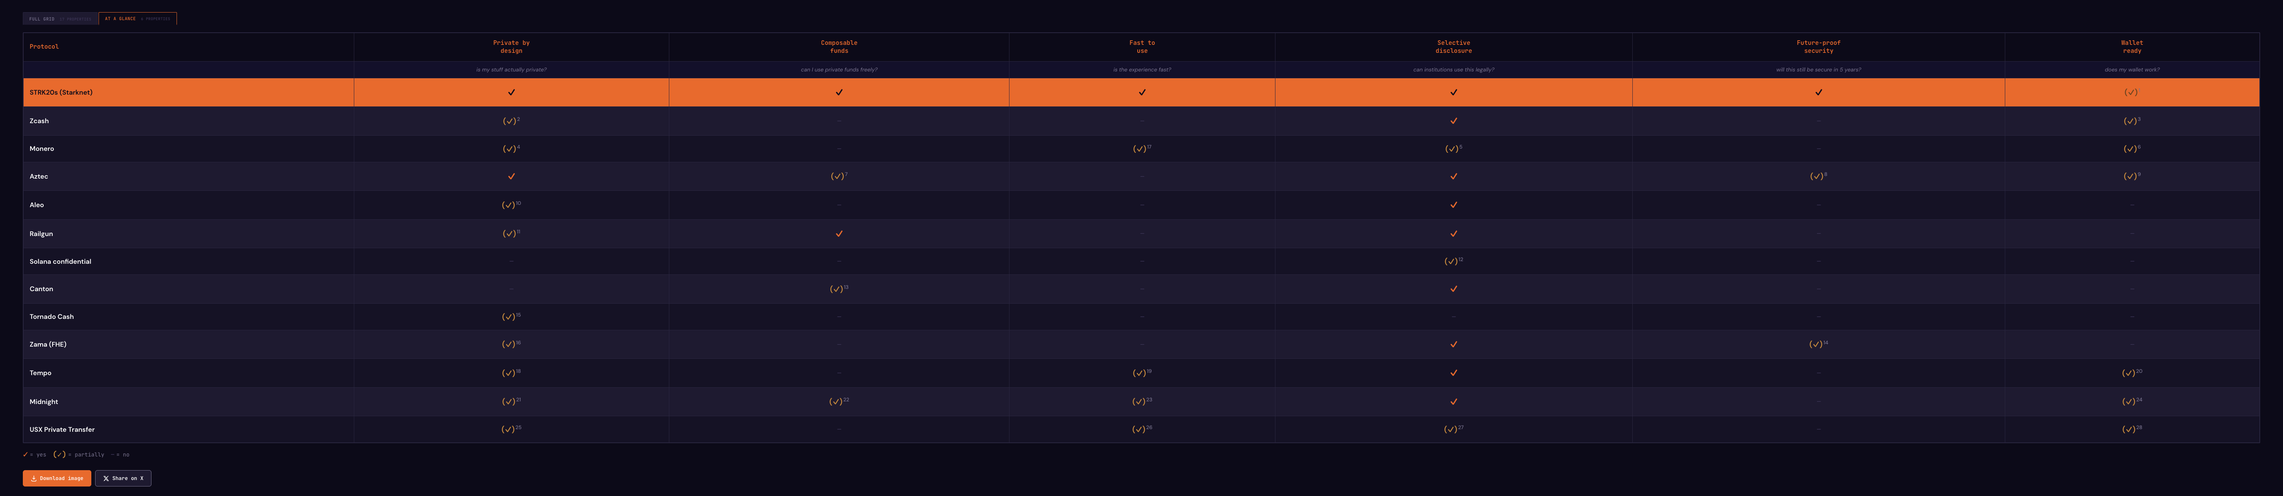
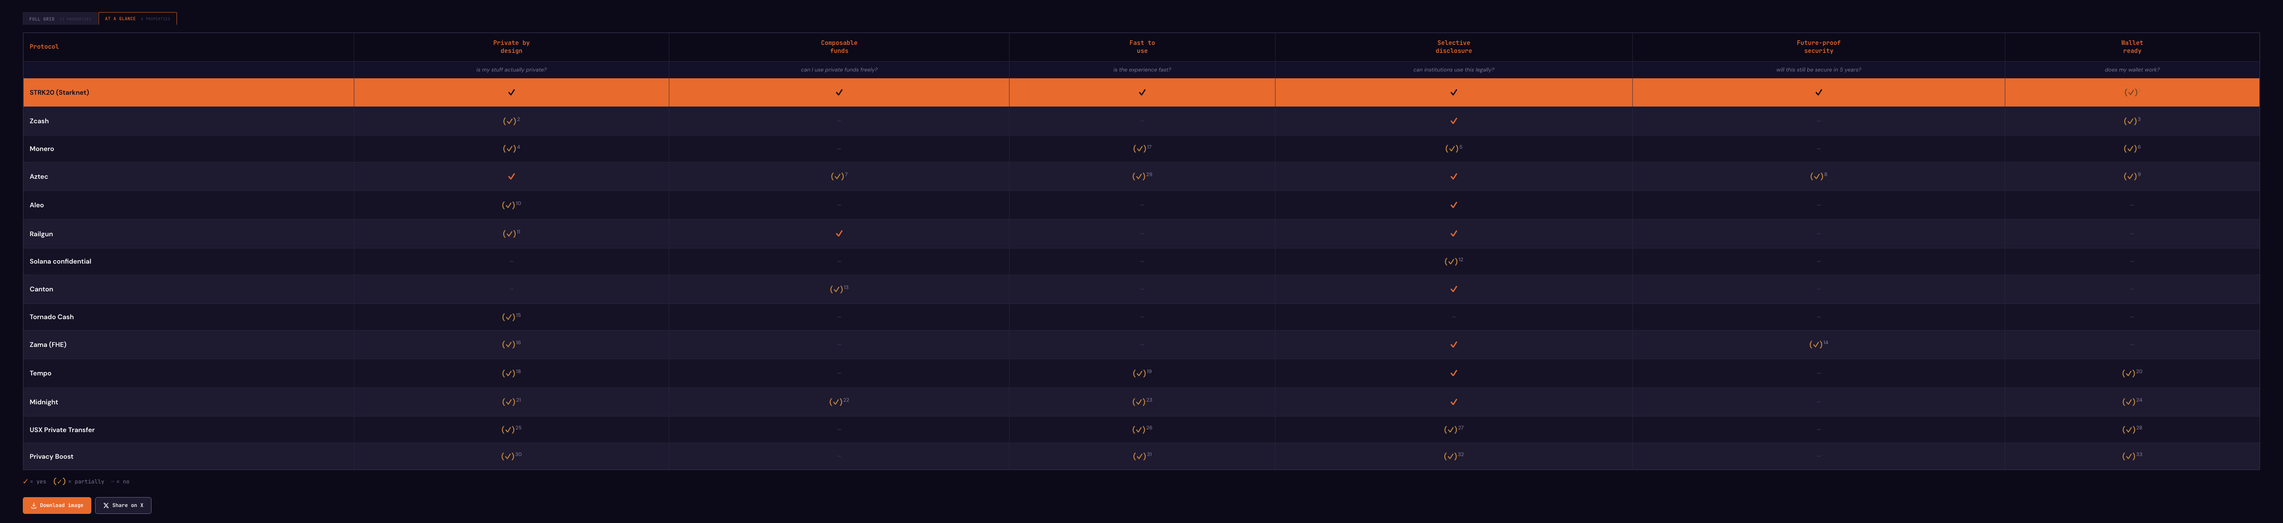
Add Privacy Boost to privacy grid

diff --git a/docs/data.js b/docs/data.js
@@ -1,4 +1,4 @@
-// Website data source — 17 properties x 13 protocols
+// Website data source — 17 properties x 14 protocols
 
 const SUPERSCRIPTS = {1:"\u00B9",2:"\u00B2",3:"\u00B3",4:"\u2074",5:"\u2075",6:"\u2076",7:"\u2077",8:"\u2078",9:"\u2079",10:"\u00B9\u2070",11:"\u00B9\u00B9",12:"\u00B9\u00B2",13:"\u00B9\u00B3",14:"\u00B9\u2074",15:"\u00B9\u2075",16:"\u00B9\u2076",17:"\u00B9\u2077",18:"\u00B9\u2078",19:"\u00B9\u2079",20:"\u00B2\u2070",21:"\u00B2\u00B9",22:"\u00B2\u00B2",23:"\u00B2\u00B3",24:"\u00B2\u2074",25:"\u00B2\u2075",26:"\u00B2\u2076",27:"\u00B2\u2077",28:"\u00B2\u2078",29:"\u00B2\u2079",30:"\u00B3\u2070"};
 
@@ -61,6 +61,15 @@ const sourceRefs = {
   "cloak-docs": { label: "Cloak docs", url: "https://scroll-tech.github.io/cloak-documentation/" },
   "cloak-private": { label: "Cloak private transfers", url: "https://cloak-4.gitbook.io/cloak-docs/cloak-tools/private-transfers" },
   "defillama-usx": { label: "DefiLlama USX", url: "https://defillama.com/protocol/usx.capital" },
+  "privacyboost-overview": { label: "Privacy Boost overview", url: "https://docs.privacyboost.io/product/overview" },
+  "privacyboost-trust": { label: "Privacy Boost trust model", url: "https://docs.privacyboost.io/product/trust-and-security" },
+  "privacyboost-compliance": { label: "Privacy Boost compliance docs", url: "https://docs.privacyboost.io/product/compliance" },
+  "privacyboost-protocol": { label: "Privacy Boost protocol docs", url: "https://docs.privacyboost.io/technical-explainer/protocol" },
+  "privacyboost-keys": { label: "Privacy Boost keys docs", url: "https://docs.privacyboost.io/technical-explainer/keys-and-encryption" },
+  "privacyboost-audit": { label: "OpenZeppelin PrivacyBoost audit", url: "https://www.openzeppelin.com/news/sunnyside-labs-privacyboost-audit" },
+  "privacyboost-terms": { label: "Privacy Boost terms", url: "https://www.privacyboost.io/terms" },
+  "privacyboost-optimism": { label: "Optimism Privacy Boost launch", url: "https://www.optimism.io/blog/privacy-comes-to-the-op-stack" },
+  "privacyboost-startale": { label: "Startale Privacy Boost integration", url: "https://cointelegraph.com/news/startale-app-taps-privacy-boost-for-private-transfers-on-soneium" },
 };
 
 const sourced = (text, sources = []) => ({ text, sources });
@@ -118,6 +127,9 @@ const fullProjects = [
   { name: "USX Private Transfer",
     ticks: [false, true, true, false, "partial", false, false, false, "partial", "partial", false, false, false, "partial", true, false, false],
     fnMap: {4: 30, 8: 31, 9: 31, 13: 32} },
+  { name: "Privacy Boost",
+    ticks: [true, true, false, "partial", "partial", false, false, false, "partial", "partial", "partial", false, false, false, true, false, false],
+    fnMap: {3: 37, 4: 38, 8: 39, 9: 39, 10: 40} },
 ];
 
 const fullFootnotes = {
@@ -157,9 +169,13 @@ const fullFootnotes = {
   34: sourced("STRK20 and Starknet public copy describe zero-knowledge-backed private transactions, but the public S-two docs say S-two did not provide the zero-knowledge feature at time of writing. marked partial until current deployment status is documented end to end", ["strk20-overview", "starknet-strk20-blog", "stwo-zk-status"]),
   35: sourced("Tempo docs describe selective disclosure for planned private-token designs, and TIP-403 provides issuer policy controls, but the native private token standard is still described as a future release", ["tempo-privacy", "tempo-tip403"]),
   36: sourced("Tempo's base chain does not imply a trusted setup, but the privacy cryptography for private tokens is not publicly specified yet. the grid does not assert either no-setup or trusted-setup status as a full claim", ["tempo-privacy", "tempo-transactions"]),
+  37: sourced("fast balance and history UX depends on a TEE indexer that decrypts transaction metadata and serves indexed state. users can manually recover by scanning onchain events with their viewing key, but normal note discovery is enclave-mediated", ["privacyboost-trust", "privacyboost-protocol", "privacyboost-audit"]),
+  38: sourced("audit access is operator-mediated rather than user-issued viewing keys: auditors query a TEE-decrypted database through authenticated API access, with onchain audit logs submitted asynchronously", ["privacyboost-compliance", "privacyboost-terms"]),
+  39: sourced("server-side TEE proving is advertised as sub-500ms, but private transfers settle when the relay submits an epoch. forced withdrawals bypass the TEE but introduce a configurable delay", ["privacyboost-overview", "privacyboost-protocol", "privacyboost-audit"]),
+  40: sourced("epoch batching gives one Groth16 proof per batch and docs estimate 300+ sustained TPS at Base gas target or 1,800+ TPS at gas limit, but no public production telemetry was found. no TPS sublabel is shown for claimed or theoretical figures", ["privacyboost-protocol", "privacyboost-trust"]),
 };
 
-// At-a-glance data — 6 properties x 13 protocols
+// At-a-glance data — 6 properties x 14 protocols
 const glanceProjects = [
   { name: "STRK20 (Starknet)", highlight: true,
     ticks: [true, true, true, true, true, "partial"],
@@ -200,6 +216,9 @@ const glanceProjects = [
   { name: "USX Private Transfer",
     ticks: ["partial", false, "partial", "partial", false, "partial"],
     fnMap: {0: 25, 2: 26, 3: 27, 5: 28} },
+  { name: "Privacy Boost",
+    ticks: ["partial", false, "partial", "partial", false, "partial"],
+    fnMap: {0: 30, 2: 31, 3: 32, 5: 33} },
 ];
 
 const glanceFootnotes = {
@@ -232,19 +251,23 @@ const glanceFootnotes = {
   27: sourced("USX explicitly says private transfer is private to the public, not to regulators, and supports centralized auditing and view keys for AML/CFT compliance", ["usx-docs", "cloak-private"]),
   28: sourced("USX works with standard EVM wallets like MetaMask and hides most routing complexity, but no privacy-transaction hardware-wallet path is documented", ["cloak-docs", "cloak-private"]),
   29: sourced("Aztec's speed-related full-grid properties are all partial: Alpha Mainnet has ~6s blocks, PXE proving is still being optimized, and current alpha throughput is about ~1 TPS", ["aztec-networks", "aztec-pxe"]),
+  30: sourced("private from public observers, but not private from the enclave trust path: the TEE sees plaintext amounts and counterparties, and Sunnyside or a service operator may control selective-disclosure access to transaction data", ["privacyboost-trust", "privacyboost-terms", "privacyboost-audit"]),
+  31: sourced("TEE proof generation is advertised as sub-500ms, but transfers are epoch-batched and no public production latency benchmark was found", ["privacyboost-overview", "privacyboost-protocol"]),
+  32: sourced("compliance disclosure is not user-issued viewing keys. auditors query account-level history and balances from the TEE-indexed database through an authenticated API, with onchain query logs", ["privacyboost-compliance", "privacyboost-terms"]),
+  33: sourced("works with MetaMask, WalletConnect, and EOAs, but the privacy account still derives separate auth, viewing, and nullifying keys and no hardware-wallet privacy flow is documented", ["privacyboost-overview", "privacyboost-keys"]),
 };
 
 // Column definitions grouped by category
 const definitions = [
   { category: "Privacy Model", entries: [
-    { term: "Multi-asset privacy pool", def: "Single pool supports multiple token types. Observers can\u2019t tell which token a note belongs to. STRK20, Aztec, and Railgun have full multi-asset pools. Midnight supports multiple shielded token types, but the docs do not yet establish one shared anonymity pool. Zama supports confidential ERC-20s via fhEVM but ecosystem is nascent. Aleo is asset-agnostic but each program has isolated state. Zcash/Monero are single-asset. Tornado Cash had fragmented pools. Canton uses access-control privacy." },
-    { term: "Formally ZK proofs", def: "The proof system has the mathematical zero-knowledge property: the proof guarantees that no information about the secret data leaks to the verifier. Zcash (Groth16/Halo 2), Aztec (PLONK/Honk), Aleo (Varuna), Railgun (Groth16), and Tornado Cash (Groth16) use formally ZK proof systems. STRK20 is marked partial: public STRK20 copy says zero-knowledge-backed private transactions, while public S-two docs say the zero-knowledge feature was not available at time of writing. Monero uses ring signatures. Solana uses ElGamal. Canton uses access control." },
-    { term: "Secretless (no per-note keys)", def: "Users handle a single signing key (or none, via AA). No per-note secrets to manage or lose. STRK20 derives all keys from the Starknet account key via account abstraction. Aztec requires 4 separate key pairs. Aleo requires private key + view key. Railgun requires spending + viewing keys. Monero requires spend + view keys." },
-    { term: "Efficient note discovery", def: "Recipients discover funds in time proportional to their own activity. STRK20 uses onchain indexed storage with shared secrets. Aztec uses a tagging mechanism but requires pre-registering senders. Midnight separates public onchain state from private local state and ships an indexer, but note-discovery guarantees are not yet documented precisely. Zcash requires scanning all blocks. Railgun and Aleo use standard record/UTXO scanning." },
-    { term: "Selective disclosure", def: "Users can optionally reveal transaction history to a chosen third party without affecting other users\u2019 privacy. STRK20 has third-party viewing keys. Zcash has full viewing keys. Aztec has viewing key pairs. Aleo has view keys plus zPass. Railgun has scoped viewing keys plus PPOI. Midnight exposes selective disclosure through witness functions. Tempo describes issuer/regulator selective disclosure for planned private tokens. USX exposes regulatory view keys. Canton has sub-transaction privacy with full auditability." },
+    { term: "Multi-asset privacy pool", def: "Single pool supports multiple token types. Observers can\u2019t tell which token a note belongs to. STRK20, Aztec, Railgun, and Privacy Boost have full multi-asset pools. Midnight supports multiple shielded token types, but the docs do not yet establish one shared anonymity pool. Zama supports confidential ERC-20s via fhEVM but ecosystem is nascent. Aleo is asset-agnostic but each program has isolated state. Zcash/Monero are single-asset. Tornado Cash had fragmented pools. Canton uses access-control privacy." },
+    { term: "Formally ZK proofs", def: "The proof system has the mathematical zero-knowledge property: the proof guarantees that no information about the secret data leaks to the verifier. Zcash (Groth16/Halo 2), Aztec (PLONK/Honk), Aleo (Varuna), Railgun (Groth16), Privacy Boost (Groth16/BN254), and Tornado Cash (Groth16) use formally ZK proof systems. STRK20 is marked partial: public STRK20 copy says zero-knowledge-backed private transactions, while public S-two docs say the zero-knowledge feature was not available at time of writing. Monero uses ring signatures. Solana uses ElGamal. Canton uses access control." },
+    { term: "Secretless (no per-note keys)", def: "Users handle a single signing key (or none, via AA). No per-note secrets to manage or lose. STRK20 derives all keys from the Starknet account key via account abstraction. Privacy Boost derives auth, viewing, and nullifying keys from a seed in addition to the user's EOA key. Aztec requires 4 separate key pairs. Aleo requires private key + view key. Railgun requires spending + viewing keys. Monero requires spend + view keys." },
+    { term: "Efficient note discovery", def: "Recipients discover funds in time proportional to their own activity. STRK20 uses onchain indexed storage with shared secrets. Privacy Boost provides fast note discovery through a TEE indexer that decrypts and serves metadata, with manual recovery by scanning onchain events. Aztec uses a tagging mechanism but requires pre-registering senders. Midnight separates public onchain state from private local state and ships an indexer, but note-discovery guarantees are not yet documented precisely. Zcash requires scanning all blocks. Railgun and Aleo use standard record/UTXO scanning." },
+    { term: "Selective disclosure", def: "Users can optionally reveal transaction history to a chosen third party without affecting other users\u2019 privacy. STRK20 has third-party viewing keys. Zcash has full viewing keys. Aztec has viewing key pairs. Aleo has view keys plus zPass. Railgun has scoped viewing keys plus PPOI. Midnight exposes selective disclosure through witness functions. Privacy Boost exposes compliance-oriented audit API access to a TEE-indexed database rather than user-issued viewing keys. Tempo describes issuer/regulator selective disclosure for planned private tokens. USX exposes regulatory view keys. Canton has sub-transaction privacy with full auditability." },
   ]},
   { category: "Cryptographic Foundation", entries: [
-    { term: "No trusted setup", def: "Proof system requires no trusted setup ceremony. STARKs (Starknet) require none. Zcash Orchard uses Halo 2 (no setup) but Sapling still has one. Monero\u2019s Bulletproofs+ and Solana\u2019s ElGamal/Bulletproofs require none. Aleo uses Varuna (requires universal SRS). Aztec\u2019s PLONK uses a universal updatable SRS. Midnight\u2019s current stack references a Midnight SRS. Railgun and Tornado Cash use Groth16 (per-circuit ceremonies). Tempo private-token cryptography is not yet publicly specified." },
+    { term: "No trusted setup", def: "Proof system requires no trusted setup ceremony. STARKs (Starknet) require none. Zcash Orchard uses Halo 2 (no setup) but Sapling still has one. Monero\u2019s Bulletproofs+ and Solana\u2019s ElGamal/Bulletproofs require none. Aleo uses Varuna (requires universal SRS). Aztec\u2019s PLONK uses a universal updatable SRS. Midnight\u2019s current stack references a Midnight SRS. Railgun, Privacy Boost, and Tornado Cash use Groth16 (per-circuit ceremonies). Tempo private-token cryptography is not yet publicly specified." },
     { term: "Post-quantum proof system", def: "Underlying cryptography resists quantum computing attacks. STARKs (hash-based) are post-quantum by design. Zama\u2019s TFHE is lattice-based (LWE), considered PQ-resistant but less battle-tested. All SNARK/elliptic curve systems are vulnerable to quantum attacks." },
     { term: "Succinct verifiability", def: "Anyone can verify chain integrity quickly and trustlessly on a small device. ZK rollups (Starknet, Aztec) have this. L1s like Solana, Zcash, Monero, Aleo, Midnight, and Canton do not. Railgun runs on L1s without succinct verification." },
   ]},
@@ -255,10 +278,10 @@ const definitions = [
     { term: "Programmable privacy", def: "Ability to prove complex logic privately, verified cheaply onchain. STRK20: Cairo + Stwo enables proving entire block logic. Aztec: Noir + PXE. Midnight: Compact plus hybrid public/private state. Aleo: Leo but no cross-program composability. Zcash: simple transfers only. Tornado Cash: fixed-denomination deposits were the ceiling." },
   ]},
   { category: "Ecosystem & Access", entries: [
-    { term: "DeFi composability", def: "Existing DeFi contracts require zero custom integration for private transactions. STRK20 and Railgun work with existing live protocols. Aztec, Canton, Midnight, Tempo, and Aleo require building inside their own app environments or token standards. USX routes through a specific private-transfer flow rather than arbitrary DeFi composability." },
-    { term: "Existing ecosystem", def: "Live DeFi protocols, real liquidity, real users already present. Starknet, Zcash, Monero, Railgun, Solana, and Canton all have established ecosystems. Aleo mainnet since Sep 2024, DeFi nascent. Tempo mainnet launched in March 2026 with named design partners, but the live ecosystem is early. Midnight mainnet launched in March 2026, ecosystem early. USX is live on Scroll with modest TVL. Aztec is live in Alpha with explicit security caveats. Zama mainnet is live with early applications and integrations, but the ecosystem is still small." },
-    { term: "EVM compatible", def: "Privacy protocol runs on or integrates natively with EVM chains. Railgun on Ethereum/Polygon/Arbitrum/BSC. Tornado Cash was Ethereum-native. Zama\u2019s fhEVM and Tempo are EVM-compatible. USX runs on Scroll. STRK20 runs on Cairo VM. Aztec uses Noir. Aleo uses Leo. Midnight uses Compact." },
-    { term: "Account abstraction", def: "Privacy works with multisig, session keys, social recovery, passkeys, or sponsored transactions at the protocol level. STRK20 and Aztec have native protocol-level AA. Tempo has native account-abstraction-style transaction features and passkeys. Others require standard key management or app-specific abstractions." },
-    { term: "Hardware wallet support", def: "Users can sign privacy transactions with a hardware wallet. Monero: Ledger full shielded. Zcash: hardware-wallet support is limited; official Trezor docs say shielded z-address transactions are not compatible. Solana has Ledger support, but confidential transfers are disabled on mainnet. Starknet has Ledger for standard transactions, but STRK20 privacy transactions are not yet available on hardware wallets. Tempo uses passkey AA but no hardware-wallet path for confidential transfers is published. Midnight has announced Keystone and other wallet partners, but privacy-transaction hardware flows are not yet clearly documented. Aztec, Aleo, and USX do not have documented privacy-transaction hardware-wallet support." },
+    { term: "DeFi composability", def: "Existing DeFi contracts require zero custom integration for private transactions. STRK20 and Railgun work with existing live protocols. Aztec, Canton, Midnight, Tempo, and Aleo require building inside their own app environments or token standards. Privacy Boost is an SDK/app integration layer around shielded deposits, transfers, and withdrawals; private DeFi is roadmap rather than zero-integration composability today. USX routes through a specific private-transfer flow rather than arbitrary DeFi composability." },
+    { term: "Existing ecosystem", def: "Live DeFi protocols, real liquidity, real users already present. Starknet, Zcash, Monero, Railgun, Solana, and Canton all have established ecosystems. Aleo mainnet since Sep 2024, DeFi nascent. Tempo mainnet launched in March 2026 with named design partners, but the live ecosystem is early. Midnight mainnet launched in March 2026, ecosystem early. USX is live on Scroll with modest TVL. Privacy Boost is live as an OP Mainnet beta for Sunnyside customers and announced Startale/Soneium integration, but no public TVL, contract address index, or production usage telemetry was found. Aztec is live in Alpha with explicit security caveats. Zama mainnet is live with early applications and integrations, but the ecosystem is still small." },
+    { term: "EVM compatible", def: "Privacy protocol runs on or integrates natively with EVM chains. Railgun on Ethereum/Polygon/Arbitrum/BSC. Tornado Cash was Ethereum-native. Zama\u2019s fhEVM, Tempo, and Privacy Boost are EVM-compatible. USX runs on Scroll. STRK20 runs on Cairo VM. Aztec uses Noir. Aleo uses Leo. Midnight uses Compact." },
+    { term: "Account abstraction", def: "Privacy works with multisig, session keys, social recovery, passkeys, or sponsored transactions at the protocol level. STRK20 and Aztec have native protocol-level AA. Tempo has native account-abstraction-style transaction features and passkeys. Privacy Boost works with EOAs and app SDKs but does not provide native protocol-level account abstraction. Others require standard key management or app-specific abstractions." },
+    { term: "Hardware wallet support", def: "Users can sign privacy transactions with a hardware wallet. Monero: Ledger full shielded. Zcash: hardware-wallet support is limited; official Trezor docs say shielded z-address transactions are not compatible. Solana has Ledger support, but confidential transfers are disabled on mainnet. Starknet has Ledger for standard transactions, but STRK20 privacy transactions are not yet available on hardware wallets. Tempo uses passkey AA but no hardware-wallet path for confidential transfers is published. Midnight has announced Keystone and other wallet partners, but privacy-transaction hardware flows are not yet clearly documented. Aztec, Aleo, USX, and Privacy Boost do not have documented privacy-transaction hardware-wallet support." },
   ]},
 ];

diff --git a/docs/index.html b/docs/index.html
@@ -4,7 +4,7 @@
 <meta charset="UTF-8">
 <meta name="viewport" content="width=device-width, initial-scale=1.0">
 <title>Privacy Protocol Grid | Privacy Protocol Claims, Fact-Checked</title>
-<meta name="description" content="What 13 crypto privacy protocols actually deliver: STRK20, Zcash, Monero, Aztec, Aleo, Railgun, Midnight, USX, and more. 17 properties, with sources listed in footnotes.">
+<meta name="description" content="What 14 crypto privacy protocols actually deliver: STRK20, Zcash, Monero, Aztec, Aleo, Railgun, Midnight, USX, Privacy Boost, and more. 17 properties, with sources listed in footnotes.">
 <meta name="keywords" content="privacy protocol, zero knowledge, ZK proofs, STRK20, Zcash, Monero, Aztec, Aleo, Railgun, Midnight, Tempo, USX, Starknet, ERC20 privacy, crypto privacy, blockchain privacy">
 <link rel="canonical" href="https://privacygrid.dev/">
 
@@ -15,7 +15,7 @@
   "@type": "WebApplication",
   "name": "Privacy Protocol Grid",
   "url": "https://privacygrid.dev",
-  "description": "What 13 crypto privacy protocols actually deliver. 17 properties, with sources listed in footnotes.",
+  "description": "What 14 crypto privacy protocols actually deliver. 17 properties, with sources listed in footnotes.",
   "applicationCategory": "Research Tool",
   "operatingSystem": "Web",
   "creator": {
@@ -31,10 +31,10 @@
 
 <!-- Open Graph -->
 <meta property="og:title" content="Privacy Protocol Grid">
-<meta property="og:description" content="What 13 crypto privacy protocols actually deliver: STRK20, Zcash, Monero, Aztec, Aleo, Railgun, Midnight, Tempo, USX. 17 properties, sources listed in footnotes.">
+<meta property="og:description" content="What 14 crypto privacy protocols actually deliver: STRK20, Zcash, Monero, Aztec, Aleo, Railgun, Midnight, Tempo, USX, Privacy Boost. 17 properties, sources listed in footnotes.">
 <meta property="og:image" content="https://privacygrid.dev/privacy_grid_image.png">
 <meta property="og:image:width" content="6000">
-<meta property="og:image:height" content="1366">
+<meta property="og:image:height" content="1441">
 <meta property="og:url" content="https://privacygrid.dev/">
 <meta property="og:type" content="website">
 <meta property="og:site_name" content="Privacy Protocol Grid">
@@ -42,9 +42,9 @@
 <!-- Twitter Card -->
 <meta name="twitter:card" content="summary_large_image">
 <meta name="twitter:title" content="Privacy Protocol Grid">
-<meta name="twitter:description" content="13 protocols. 17 properties. Sources in footnotes.">
+<meta name="twitter:description" content="14 protocols. 17 properties. Sources in footnotes.">
 <meta name="twitter:image" content="https://privacygrid.dev/privacy_grid_image.png">
-<meta name="twitter:image:alt" content="Privacy Protocol Grid comparing 13 protocols across 17 properties">
+<meta name="twitter:image:alt" content="Privacy Protocol Grid comparing 14 protocols across 17 properties">
 
 <link rel="icon" type="image/svg+xml" href="favicon.svg">
 <link rel="preconnect" href="https://fonts.googleapis.com">
@@ -62,14 +62,14 @@
         <span class="hero-dot"></span>
         <span>Open source</span>
         <span class="hero-sep">/</span>
-        <span>13 protocols</span>
+        <span>14 protocols</span>
         <span class="hero-sep">/</span>
         <span>17 properties</span>
       </div>
       <h1>Privacy<br>Protocol Grid</h1>
     </div>
     <div class="hero-right">
-      <p class="hero-desc">What 13 privacy protocols actually deliver. Sources listed in footnotes.</p>
+      <p class="hero-desc">What 14 privacy protocols actually deliver. Sources listed in footnotes.</p>
       <div class="hero-actions">
         <a href="https://github.com/welttowelt/privacy-protocol-analysis" class="btn btn-primary" target="_blank" rel="noopener">
           <svg width="16" height="16" viewBox="0 0 24 24" fill="currentColor" style="margin-right:6px"><path d="M12 0C5.37 0 0 5.37 0 12c0 5.31 3.435 9.795 8.205 11.385.6.105.825-.255.825-.57 0-.285-.015-1.23-.015-2.235-3.015.555-3.795-.735-4.035-1.41-.135-.345-.72-1.41-1.23-1.695-.42-.225-1.02-.78-.015-.795.945-.015 1.62.87 1.845 1.23 1.08 1.815 2.805 1.305 3.495.99.105-.78.42-1.305.765-1.605-2.67-.3-5.46-1.335-5.46-5.925 0-1.305.465-2.385 1.23-3.225-.12-.3-.54-1.53.12-3.18 0 0 1.005-.315 3.3 1.23.96-.27 1.98-.405 3-.405s2.04.135 3 .405c2.295-1.56 3.3-1.23 3.3-1.23.66 1.65.24 2.88.12 3.18.765.84 1.23 1.905 1.23 3.225 0 4.605-2.805 5.625-5.475 5.925.435.375.81 1.095.81 2.22 0 1.605-.015 2.895-.015 3.3 0 .315.225.69.825.57A12.02 12.02 0 0024 12c0-6.63-5.37-12-12-12z"/></svg>
@@ -374,23 +374,23 @@
 <!-- Tooltip -->
 <div class="tooltip" id="tooltip"></div>
 
-<script src="data.js?v=13"></script>
+<script src="data.js?v=14"></script>
 <script src="app.js?v=6"></script>
 <!-- Crawler-only prose + FAQ (visually hidden, readable by search engines and LLMs) -->
 <div class="sr-only">
 <section>
   <h2>How privacy protocols compare</h2>
-  <p>As of April 2026, there are thirteen major privacy protocols in crypto, each taking a fundamentally different approach. This grid evaluates them across 17 technical properties in four categories: privacy model, cryptographic foundation, performance and UX, and ecosystem access.</p>
+  <p>As of April 2026, there are fourteen major privacy protocols in crypto, each taking a fundamentally different approach. This grid evaluates them across 17 technical properties in four categories: privacy model, cryptographic foundation, performance and UX, and ecosystem access.</p>
   <h3>Privacy model</h3>
-  <p>STRK20 on Starknet, Aztec, and Railgun all support multi-asset privacy pools, meaning multiple token types share a single anonymity set. Midnight supports multiple shielded token types, but its docs do not yet establish one canonical shared pool. Zcash and Monero are single-asset only. STRK20 is the only protocol with a secretless design where users manage a single signing key via account abstraction, with no per-note secrets to lose. Most other protocols require two or more key pairs. For selective disclosure, STRK20, Zcash, Aztec, Aleo, Railgun, and Midnight all offer ways to reveal transaction history to a chosen third party; Tempo and USX expose more issuer- or regulator-oriented disclosure paths.</p>
+  <p>STRK20 on Starknet, Aztec, Railgun, and Privacy Boost all support multi-asset privacy pools, meaning multiple token types share a single anonymity set. Midnight supports multiple shielded token types, but its docs do not yet establish one canonical shared pool. Zcash and Monero are single-asset only. STRK20 is the only protocol with a secretless design where users manage a single signing key via account abstraction, with no per-note secrets to lose. Most other protocols require two or more key pairs. For selective disclosure, STRK20, Zcash, Aztec, Aleo, Railgun, and Midnight all offer user-controlled ways to reveal transaction history to a chosen third party; Tempo, USX, and Privacy Boost expose more issuer-, operator-, or regulator-oriented disclosure paths.</p>
   <h3>Cryptographic foundation</h3>
-  <p>STRK20 uses STARKs, which require no trusted setup and are post-quantum resistant by design (hash-based). Its formal zero-knowledge row is marked partial because STRK20 public copy describes zero-knowledge-backed private transactions, while public S-two docs still say the zero-knowledge feature was not available at time of writing. Zcash's Orchard upgrade uses Halo 2 (no setup), but its older Sapling pool still relies on a trusted ceremony. Aztec uses PLONK with a universal updatable SRS. Railgun and Tornado Cash use Groth16, which requires per-circuit ceremonies. On post-quantum security, only STARKs (Starknet) and TFHE lattice-based cryptography (Zama) are considered resistant to quantum attacks.</p>
+  <p>STRK20 uses STARKs, which require no trusted setup and are post-quantum resistant by design (hash-based). Its formal zero-knowledge row is marked partial because STRK20 public copy describes zero-knowledge-backed private transactions, while public S-two docs still say the zero-knowledge feature was not available at time of writing. Zcash's Orchard upgrade uses Halo 2 (no setup), but its older Sapling pool still relies on a trusted ceremony. Aztec uses PLONK with a universal updatable SRS. Railgun, Privacy Boost, and Tornado Cash use Groth16, which requires per-circuit ceremonies. On post-quantum security, only STARKs (Starknet) and TFHE lattice-based cryptography (Zama) are considered resistant to quantum attacks.</p>
   <h3>Performance and UX</h3>
-  <p>STRK20 offers the fastest shielding: ~2s block confirmation plus sub-5s proof generation. Zcash is bottlenecked by ~75s block times. Aztec runs ~6s blocks in Alpha Mainnet (launched March 31, 2026), but the team has also published alpha-stage security warnings and told users not to put in funds they are not willing to lose. Midnight uses client-side proving on a roughly 6-second block cadence, but has not yet published a public mainnet latency benchmark. Railgun imposes a mandatory 1-hour standby after shielding. Monero is always private by default but has no opt-out to a transparent state. For scalability, Starknet handles roughly 1,000 TPS today, while Aztec processes about 1 TPS in its Alpha phase.</p>
+  <p>STRK20 offers the fastest trust-minimized shielding: ~2s block confirmation plus sub-5s proof generation. Zcash is bottlenecked by ~75s block times. Privacy Boost advertises sub-500ms TEE proof generation and high throughput through epoch batching, but transfers settle when relays submit epochs and the privacy path depends on an enclave operator. Aztec runs ~6s blocks in Alpha Mainnet (launched March 31, 2026), but the team has also published alpha-stage security warnings and told users not to put in funds they are not willing to lose. Midnight uses client-side proving on a roughly 6-second block cadence, but has not yet published a public mainnet latency benchmark. Railgun imposes a mandatory 1-hour standby after shielding. Monero is always private by default but has no opt-out to a transparent state. For scalability, Starknet handles roughly 1,000 TPS today, while Aztec processes about 1 TPS in its Alpha phase.</p>
   <h3>Ecosystem and DeFi</h3>
-  <p>STRK20 and Railgun are the only protocols where existing DeFi contracts require zero custom integration for private transactions. Railgun works across Ethereum, Polygon, Arbitrum, and BSC. Aztec, Canton, Midnight, Tempo, and Aleo have privacy-capable application environments or token standards within their own ecosystems but are not composable with existing Ethereum or Starknet DeFi. Starknet, Zcash, Monero, Solana, and Canton all have established ecosystems with real liquidity and users. Tempo and Midnight are newly live and still early. USX is live on Scroll with a modest footprint. Zama mainnet is live with early applications and infrastructure integrations, but its ecosystem is still nascent.</p>
+  <p>STRK20 and Railgun are the only protocols where existing DeFi contracts require zero custom integration for private transactions. Railgun works across Ethereum, Polygon, Arbitrum, and BSC. Aztec, Canton, Midnight, Tempo, Aleo, and Privacy Boost have privacy-capable application environments, SDKs, or token standards within their own ecosystems but are not composable with existing Ethereum or Starknet DeFi without custom integration or unshielding. Starknet, Zcash, Monero, Solana, and Canton all have established ecosystems with real liquidity and users. Tempo and Midnight are newly live and still early. USX is live on Scroll with a modest footprint. Privacy Boost is live as an OP Mainnet beta and has announced Startale/Soneium integration, but public usage telemetry is not yet available. Zama mainnet is live with early applications and infrastructure integrations, but its ecosystem is still nascent.</p>
   <h3>What each protocol is best suited for</h3>
-  <p>STRK20 (Starknet) covers the widest range of properties: multi-asset privacy, no trusted setup, post-quantum proofs, fast shielding, DeFi composability, programmable privacy, and account abstraction. It is designed for supported regular ERC-20 tokens on Starknet. Zcash pioneered zero-knowledge proofs for payments and has the longest track record. Monero offers always-on privacy with strong anonymity but limited programmability. Aztec is building a full programmable privacy L2 with Noir and its own execution environment, but it remains alpha-stage with explicit security caveats. Midnight is a privacy-first programmable chain built around hybrid public/private state and selective disclosure, with a live but still early ecosystem. Railgun brings privacy to existing EVM DeFi through its shielded pool. Aleo enables private computation with Leo, but each program runs in isolation. Zama takes a different approach with fully homomorphic encryption, computing on encrypted data server-side, and is beginning to show early mainnet applications and integrations.</p>
+  <p>STRK20 (Starknet) covers the widest range of properties: multi-asset privacy, no trusted setup, post-quantum proofs, fast shielding, DeFi composability, programmable privacy, and account abstraction. It is designed for supported regular ERC-20 tokens on Starknet. Zcash pioneered zero-knowledge proofs for payments and has the longest track record. Monero offers always-on privacy with strong anonymity but limited programmability. Aztec is building a full programmable privacy L2 with Noir and its own execution environment, but it remains alpha-stage with explicit security caveats. Midnight is a privacy-first programmable chain built around hybrid public/private state and selective disclosure, with a live but still early ecosystem. Railgun brings privacy to existing EVM DeFi through its shielded pool. Privacy Boost targets enterprise EVM apps with a Groth16 plus TEE privacy SDK; it has strong UX and compliance positioning but a larger privacy trust surface. Aleo enables private computation with Leo, but each program runs in isolation. Zama takes a different approach with fully homomorphic encryption, computing on encrypted data server-side, and is beginning to show early mainnet applications and integrations.</p>
 </section>
 <section itemscope itemtype="https://schema.org/FAQPage">
   <h2>Frequently asked questions</h2>

diff --git a/README.md b/README.md
@@ -8,7 +8,7 @@ This grid exists so that builders, researchers, and users can see where things s
 
 ## What's in the grid
 
-**13 protocols** across **17 properties** in 4 categories:
+**14 protocols** across **17 properties** in 4 categories:
 
 | Category | Properties |
 |---|---|
@@ -19,7 +19,7 @@ This grid exists so that builders, researchers, and users can see where things s
 
 ### Protocols covered
 
-STRK20 (Starknet) · Zcash · Monero · Aztec · Aleo · Railgun · Solana Confidential · Canton · Tornado Cash · Zama (FHE) · Tempo · Midnight · USX Private Transfer
+STRK20 (Starknet) · Zcash · Monero · Aztec · Aleo · Railgun · Solana Confidential · Canton · Tornado Cash · Zama (FHE) · Tempo · Midnight · USX Private Transfer · Privacy Boost
 
 **Missing a protocol?** Open a PR to add it.
 
